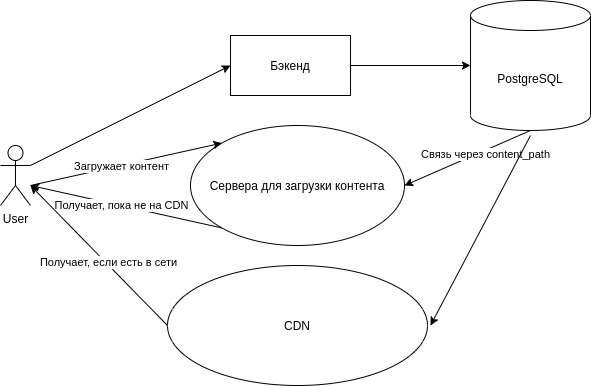
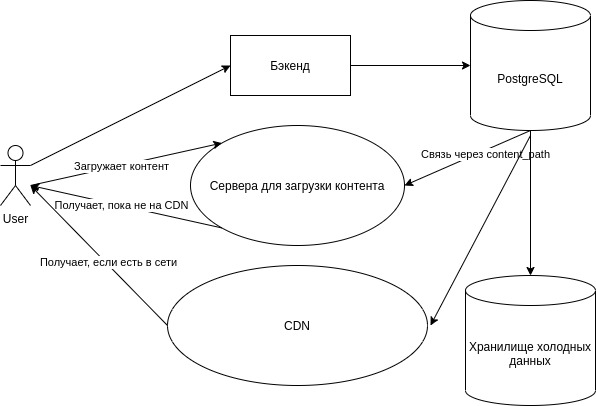
fix

diff --git a/README.md b/README.md
@@ -133,6 +133,9 @@ user_id (16) + video_id(16) + text (300) = 332 bytes per comment
 Таким образом на первый год потребуется 25 000 000 * (365 / 3) * 332 ~ 940 гб
 ```
 
+Итого, итоговый размер таблицы на год равен:
+5 + 7,45 + 66,6 + 30 + 580 + 940 = **1629** гб = **1.6** тб 
+
 #### Cхема физической связи:
 
 ![physical_scheme.jpg](physical_scheme.jpg)
@@ -162,11 +165,22 @@ user_id (16) + video_id(16) + text (300) = 332 bytes per comment
 ```
 
 Так как в месяц загружается 1163 тб видео, то в день загружается 37.5 тб контента.
-Так как требуется хранить 10 процентов от самого актуального контента, если считать, что максимальная длительность актуальности видео равна неделе, то требуется SSD объёмом ~32 ТБ (с запасом).
+Так как требуется хранить 10 процентов от самого актуального контента, если считать, что максимальная длительность актуальности видео равна неделе, то требуется SSD объёмом ~32 тб (с запасом).
 Сервера принимающие контент от пользователей должны иметь ёмкость для хранения контента минимум неделю, поэтому их ёмкость должна быть равна ~250 тб.
 
 Когда контент становиться "холодным", то его можно переместить в хранилище, где он будет храниться на RAID-5 массиве HDD.
 Объёмы хранилища на год = 1163 * 12 = 13.6 пб
+
+#### Подсчёт количества оборудования
+
+Сервер | CPU | RAM | Тип диска | Объём диска| Количество дисков | Количество серверов
+--- | --- | --- | --- | --- | --- | --- 
+Nginx | 16 | 16 GB | - | - | - | 50
+Backend | 16 | 32 GB | - | - | - | 2
+PostgreSQL | 16 | 32 GB | SSD | 2 тб | 4 (RAID10) | 3 (1 master + 2 slaves)
+CDN | 16 | 16 GB | SSD | 2 TB | 4 (RAID10) | 16
+Контент сервера | 16 | 16 GB | SSD | 16 TB | 4 (RAID10) | 8
+Холодное хранилище | 16 | 16 GB | HDD | 16 TB | 16 (RAID10) | 110 | 
 
 ### 5. Выбор технологий
 
